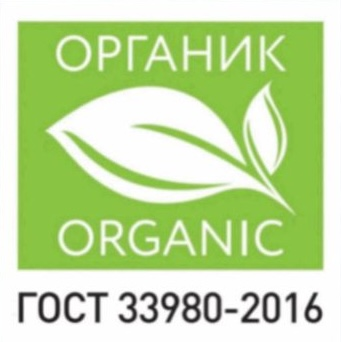
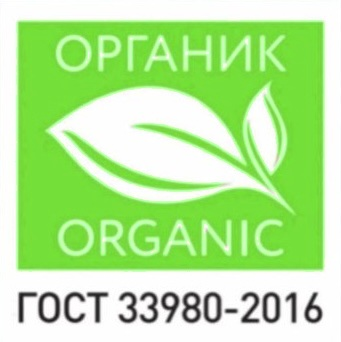
Каталог 12 позиций с литражом (100/250/500 мл); блок технологии по тексту клиента; документы (договор+сертификат) и адреса поставки; убраны 4 карточки с главной; значок Органик ярче; лого в цветах Банка Казани; тексты каталога и «Вас»

diff --git a/src/styles/global.css b/src/styles/global.css
@@ -29,17 +29,19 @@ a { color: inherit; }
 
 /* ── nav ── */
 header.site { position: sticky; top: 0; z-index: 40; display: flex; align-items: center; gap: 24px; padding: 18px 7%;
-  background: rgba(250,247,239,.92); backdrop-filter: blur(10px); border-bottom: 1px solid #e6dfcd; }
-.brand { font-family: var(--serif); font-size: 28px; font-weight: 700; color: var(--forest); letter-spacing: .02em; text-decoration: none; line-height: 1; }
-.brand i { color: var(--gold); font-style: normal; }
+  background: rgba(34,42,26,.92); backdrop-filter: blur(10px); border-bottom: 1px solid #3a432b; }
+/* лого в цветах Банка Казани: Eco — зелёный, Premi — фиолетовый (эксперимент) */
+:root { --kz-green: #5cc42c; --kz-violet: #9c2d8e; }
+.brand { font-family: var(--serif); font-size: 28px; font-weight: 700; color: var(--kz-green); letter-spacing: .02em; text-decoration: none; line-height: 1; }
+.brand i { color: var(--kz-violet); font-style: normal; }
 .brand small { display: block; font-family: var(--sans); font-size: 8.5px; letter-spacing: .2em; color: var(--gold-d); font-weight: 700; text-transform: uppercase; margin-top: 3px; }
 nav.main { margin: 0 auto; display: flex; gap: 34px; }
-nav.main a { font-size: 13px; letter-spacing: .14em; text-transform: uppercase; color: #55603c; text-decoration: none; font-weight: 600; transition: .2s; }
-nav.main a:hover, nav.main a[aria-current="page"] { color: var(--gold-d); }
-.nav-cta { border: 1.4px solid var(--olive); color: var(--olive); padding: 10px 22px; border-radius: 2px; text-decoration: none; font-size: 12px; letter-spacing: .14em; text-transform: uppercase; font-weight: 700; transition: .25s; white-space: nowrap; }
-.nav-cta:hover { background: var(--olive); color: var(--bone); }
+nav.main a { font-size: 13px; letter-spacing: .14em; text-transform: uppercase; color: #cfcab5; text-decoration: none; font-weight: 600; transition: .2s; }
+nav.main a:hover, nav.main a[aria-current="page"] { color: var(--gold); }
+.nav-cta { border: 1.4px solid #6f7a52; color: var(--bone); padding: 10px 22px; border-radius: 2px; text-decoration: none; font-size: 12px; letter-spacing: .14em; text-transform: uppercase; font-weight: 700; transition: .25s; white-space: nowrap; }
+.nav-cta:hover { border-color: var(--gold); color: var(--gold); }
 .burger { display: none; background: none; border: none; cursor: pointer; flex-direction: column; gap: 5px; padding: 6px; }
-.burger span { width: 24px; height: 2px; background: var(--forest); display: block; transition: .25s; }
+.burger span { width: 24px; height: 2px; background: var(--bone); display: block; transition: .25s; }
 
 /* ── buttons ── */
 .btn { display: inline-block; padding: 16px 34px; border-radius: 2px; text-decoration: none; font-size: 13px; letter-spacing: .16em; text-transform: uppercase; font-weight: 700; transition: .25s; cursor: pointer; border: none; font-family: var(--sans); }
@@ -135,6 +137,13 @@ section { padding: 90px 7%; }
 .pc .foot { display: flex; align-items: center; justify-content: space-between; border-top: 1px solid #eee5d2; padding-top: 16px; }
 .pc .price b { font-family: var(--serif); font-size: 26px; color: var(--forest); }
 .pc .price s { color: #c3b89a; font-size: 14px; margin-left: 7px; }
+.pc .price .per-vol { display: block; font-size: 11px; letter-spacing: .08em; text-transform: uppercase; color: #b6ab8e; margin-top: 2px; }
+/* выбор объёма на карточке товара */
+.pd-vol { margin: 22px 0 6px; }
+.pd-vol .vol-label { display: block; font-size: 12px; letter-spacing: .16em; text-transform: uppercase; font-weight: 700; color: var(--olive); margin-bottom: 10px; }
+.pd-vol .vol-opts { display: flex; gap: 10px; flex-wrap: wrap; }
+.pd-vol .vol-opts span { font-size: 13px; font-weight: 700; color: var(--olive); border: 1.3px solid #d9cfb4; background: #fff; border-radius: 30px; padding: 8px 16px; }
+.pd-vol .vol-note { font-size: 12.5px; color: var(--mute); margin-top: 10px; }
 .pc .add { background: transparent; border: 1.3px solid var(--gold-d); color: var(--gold-d); padding: 10px 18px;
   font-size: 11px; letter-spacing: .14em; text-transform: uppercase; font-weight: 700; cursor: pointer; border-radius: 2px; transition: .25s; white-space: nowrap; }
 .pc .add:hover { background: var(--gold-d); color: #fff; }
@@ -189,6 +198,7 @@ section { padding: 90px 7%; }
 .pd-price b { font-family: var(--serif); font-size: 40px; color: var(--forest); }
 .pd-price s { color: #c3b89a; font-size: 20px; }
 .pd-price .disc { color: #fff; background: var(--gold-d); font-size: 12px; font-weight: 700; padding: 4px 10px; border-radius: 30px; letter-spacing: .06em; }
+.pd-price .per-vol-lg { font-size: 13px; letter-spacing: .1em; text-transform: uppercase; color: var(--mute); }
 .pd-info .desc { font-size: 15.5px; color: #4a4d3e; line-height: 1.8; margin-bottom: 28px; }
 .pd-actions { display: flex; gap: 14px; flex-wrap: wrap; }
 .pd-note { margin-top: 26px; font-size: 13px; color: var(--mute); border-top: 1px solid #eadfc7; padding-top: 22px; line-height: 1.7; }
@@ -206,6 +216,25 @@ section { padding: 90px 7%; }
 .prose ul { margin: 0 0 18px 0; padding-left: 0; list-style: none; }
 .prose ul li { position: relative; padding-left: 26px; margin-bottom: 12px; font-size: 15px; color: #4a4d3e; line-height: 1.7; }
 .prose ul li::before { content: ''; position: absolute; left: 0; top: 11px; width: 10px; height: 10px; border: 1.5px solid var(--gold); border-radius: 50%; }
+
+/* ── документы ── */
+.docs-grid { display: grid; grid-template-columns: repeat(2, 1fr); gap: 26px; max-width: 900px; margin: 0 auto; }
+.doc-card { display: block; background: #fff; border: 1px solid #e6dcc2; border-radius: 4px; padding: 16px; text-decoration: none; color: inherit; transition: .25s; }
+.doc-card:hover { border-color: var(--gold); box-shadow: 0 18px 40px rgba(40,48,26,.12); transform: translateY(-4px); }
+.doc-card img { width: 100%; height: 340px; object-fit: cover; object-position: top; border: 1px solid #eee5d2; border-radius: 3px; background: #fff; }
+.doc-cap { display: block; margin-top: 14px; font-size: 13px; color: var(--mute); line-height: 1.5; }
+.doc-cap b { display: block; font-family: var(--serif); font-size: 18px; color: var(--forest); margin-bottom: 4px; }
+.deliver-kremlin { max-width: 900px; margin: 56px auto 0; background: #fff; border: 1px solid #e6dcc2; border-left: 3px solid var(--gold); border-radius: 4px; padding: 30px 32px; }
+.deliver-kremlin h3 { font-family: var(--serif); font-size: 24px; color: var(--forest); margin-bottom: 10px; }
+.deliver-kremlin p { font-size: 14.5px; color: var(--mute); line-height: 1.7; margin-bottom: 16px; }
+.deliver-kremlin ul { list-style: none; display: grid; grid-template-columns: repeat(2, 1fr); gap: 10px 24px; }
+.deliver-kremlin li { position: relative; padding-left: 22px; font-size: 14.5px; color: #4a4d3e; line-height: 1.6; }
+.deliver-kremlin li::before { content: ''; position: absolute; left: 0; top: 8px; width: 8px; height: 8px; border: 1.5px solid var(--gold); border-radius: 50%; }
+@media (max-width: 760px) {
+  .docs-grid { grid-template-columns: 1fr; }
+  .deliver-kremlin ul { grid-template-columns: 1fr; }
+  .deliver-kremlin { padding: 24px 20px; }
+}
 
 /* ── FAQ accordion ── */
 .faq { max-width: 820px; margin: 0 auto; }
@@ -298,9 +327,9 @@ footer.site { background: var(--forest); color: #9c9d86; padding: 60px 7% 36px; 
   .hero-accent p { font-size: 16.5px; }
   .page-hero h1 { font-size: 36px; }
   .head h2 { font-size: 34px; }
-  nav.main { display: none; position: absolute; top: 100%; left: 0; right: 0; flex-direction: column; gap: 0; background: var(--paper); border-bottom: 1px solid #e6dfcd; padding: 8px 7%; margin: 0; }
+  nav.main { display: none; position: absolute; top: 100%; left: 0; right: 0; flex-direction: column; gap: 0; background: var(--forest); border-bottom: 1px solid #3a432b; padding: 8px 7%; margin: 0; }
   nav.main.open { display: flex; }
-  nav.main a { padding: 14px 0; border-bottom: 1px solid #eee5d2; }
+  nav.main a { padding: 14px 0; border-bottom: 1px solid #3a432b; }
   header.site { position: sticky; flex-wrap: wrap; }
   .burger { display: flex; margin-left: auto; }
   .nav-cta { display: none; }

diff --git a/netlify/functions/order.js b/netlify/functions/order.js
@@ -38,6 +38,7 @@ export const handler = async (event) => {
     email: (data.email || '').trim(),
     product: (data.product || '').trim(),
     price: Number(data.price) || 0,
+    volume: (data.volume || '').trim(),
     composition: (data.composition || '').trim(),
     delivery: (data.delivery || '').trim(),
     promo: (data.promo || '').trim(),
@@ -92,6 +93,7 @@ async function sendToAmoCRM(order, leadTitle) {
   }
 
   const noteText = [
+    order.volume && `Объём: ${order.volume}`,
     order.composition && `Состав: ${order.composition}`,
     order.delivery && `Доставка: ${order.delivery}`,
     order.promo && `Промокод: ${order.promo}`,
@@ -138,6 +140,7 @@ async function sendToTelegram(order, leadTitle) {
     `📞 <b>Телефон:</b> ${esc(order.phone)}`,
     order.email && `✉ <b>Email:</b> ${esc(order.email)}`,
     order.price && `💰 <b>Сумма:</b> ${order.price.toLocaleString('ru-RU')} ₽`,
+    order.volume && `🧴 <b>Объём:</b> ${esc(order.volume)}`,
     order.composition && `🛒 <b>Состав:</b> ${esc(order.composition)}`,
     order.delivery && `🚚 <b>Доставка:</b> ${esc(order.delivery)}`,
     order.promo && `🎟 <b>Промокод:</b> ${esc(order.promo)}`,
@@ -181,6 +184,7 @@ async function sendEmail(order, leadTitle) {
     ['Телефон', order.phone],
     ['Email', order.email],
     ['Сумма', order.price ? `${order.price.toLocaleString('ru-RU')} ₽` : ''],
+    ['Объём', order.volume],
     ['Состав', order.composition],
     ['Доставка', order.delivery],
     ['Промокод', order.promo],
